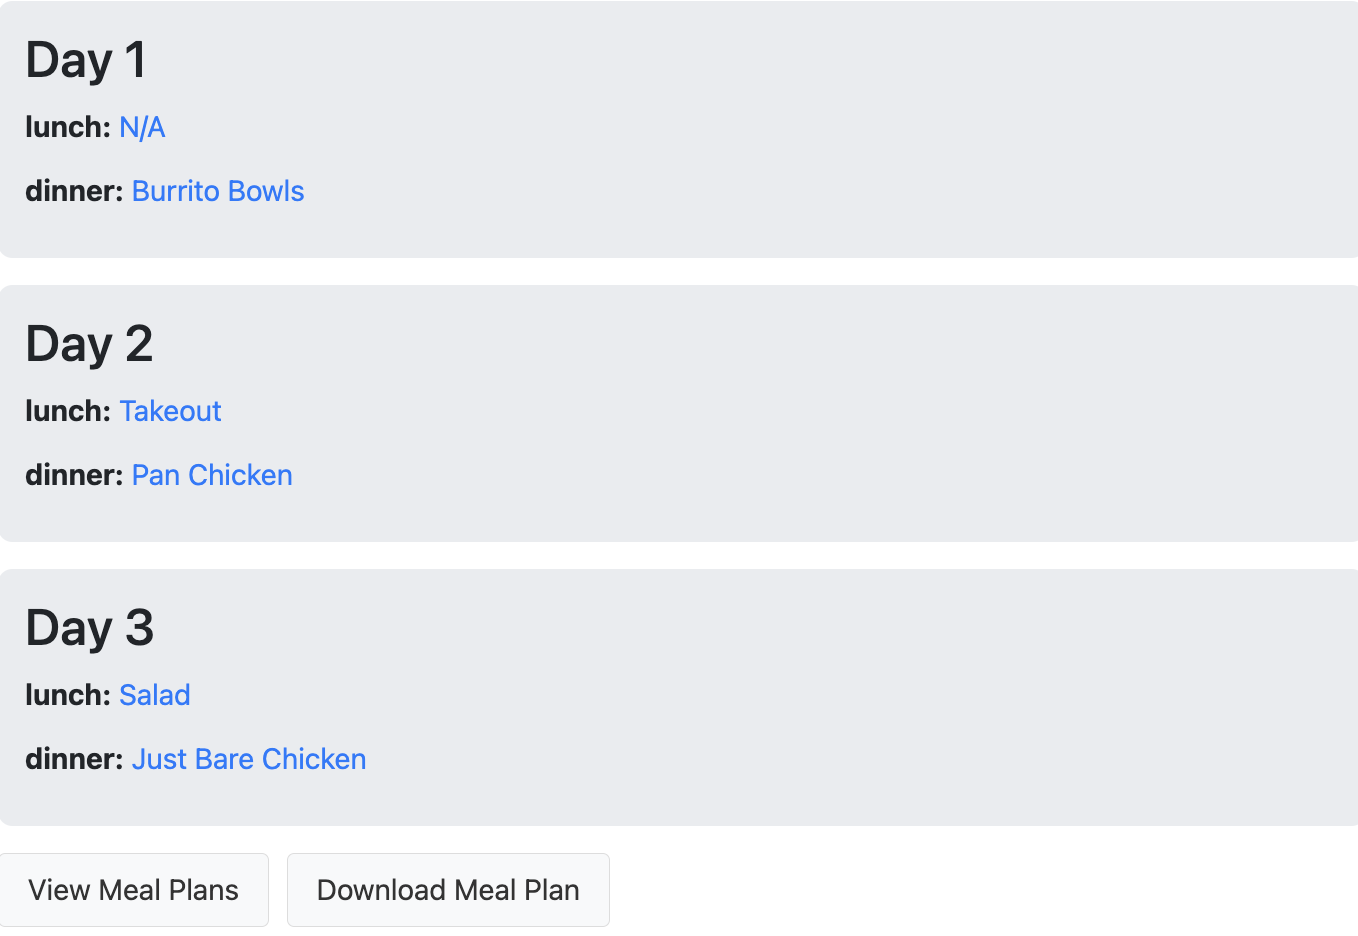
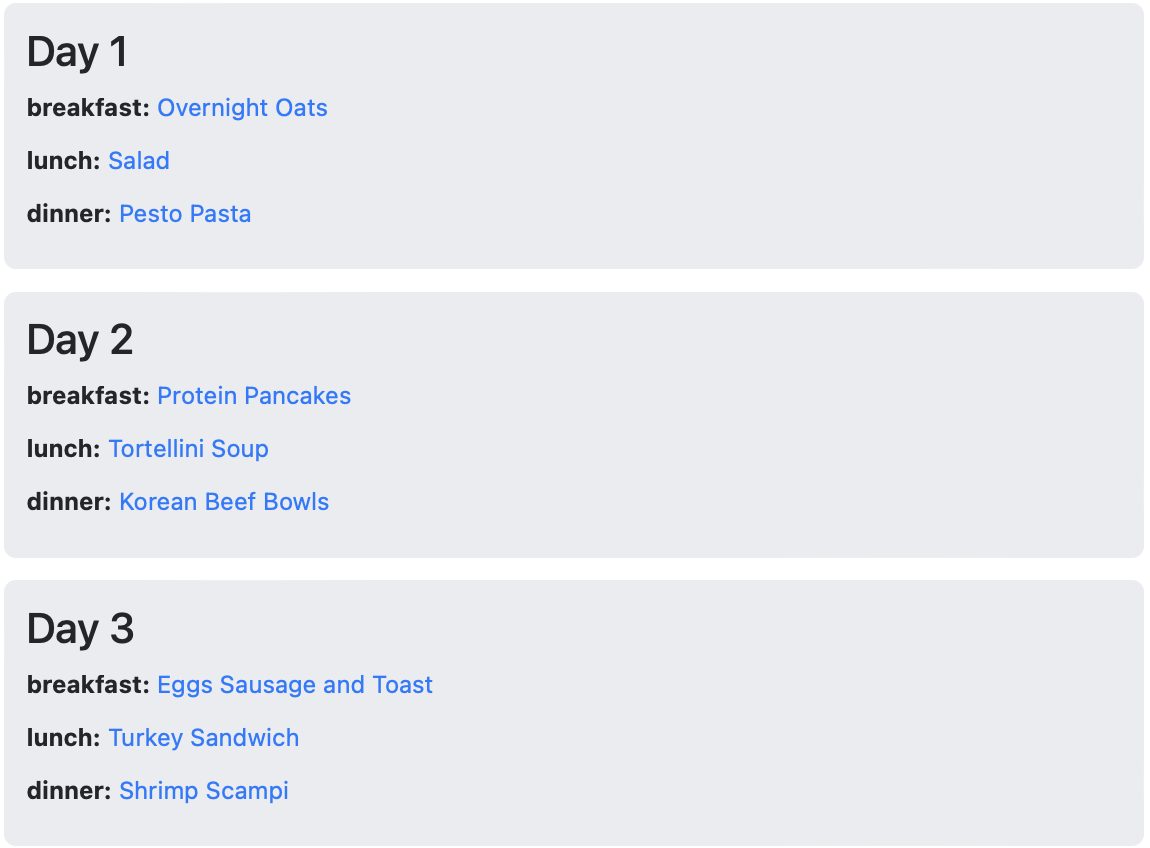
Major updates to landing page

diff --git a/templates/registration/landing_page.html b/templates/registration/landing_page.html
@@ -2,36 +2,38 @@
 {% load static %}
 
 {% block content %}
-<div class="top-section">
-    <div class="left-content">
+<div class="hero-section">
+    <div class="hero-content">
         <h1>Create Your Recipe Archive</h1>
         <p>Stop forgetting about all the good food you make</p>
-        <a href="{% url 'login' %}" class="btn btn-custom">Log In</a>
-        <a href="{% url 'register' %}" class="btn btn-custom">Register</a>
+        <a href="{% url 'login' %}" class="btn btn-info">Log In</a>
+        <a href="{% url 'register' %}" class="btn btn-info">Register</a>
     </div>
-    <div class="right-content">
+    <div class="hero-image">
         <img src="{% static 'images/home_snip_1.png' %}" alt="Cooking Image" class="img-fluid">
     </div>
 </div>
+
 <div class="features-section">
-    <div class="feature-column">
-        <h3>Save all your recipes</h3>
+    <div class="feature-row">
+        <h3>Save your recipes</h3>
         <p>Fill easy to use forms to save your info</p>
-        <img src="{% static 'images/add.png' %}" alt="Feature One">
+        <img src="{% static 'images/add.png' %}" alt="Feature One" class="feature-image feature-image-1">
     </div>
 
-    <div class="feature-column">
+    <div class="feature-row">
         <h3>Generate Images</h3>
-        <p>Use AI to bring your archive alive</p>
-        <img src="{% static 'images/BeefBowl.png' %}" alt="Feature Two">
+        <p>Use AI to bring your Recipe Archive to life</p>
+        <img src="{% static 'images/BeefBowl.png' %}" alt="Feature Two" class="feature-image feature-image-2">
     </div>
 
-    <div class="feature-column">
+    <div class="feature-row">
         <h3>Create Mealplans</h3>
         <p>Using your recipes easily plan your meals</p>
-        <img src="{% static 'images/plan.png' %}" alt="Feature Three">
+        <img src="{% static 'images/plan.png' %}" alt="Feature Three" class="feature-image feature-image-3">
     </div>
 </div>
+
     <style>
 
 @media only screen and (max-width: 600px) {
@@ -53,15 +55,109 @@
     }
 }
 
-    .top-section {
-    background-size: cover;
-    padding: 50px 0;
+.hero-section {
+    display: flex;
+    flex-direction: column;
+    align-items: center;
+    justify-content: center;
+    height: 100vh; /* Full height of the viewport */
+    text-align: center;
+    padding: 20px;
 }
 
-.feature-column:hover {
-    transform: scale(1.05);
-    transition: transform 0.3s ease-in-out;
+.hero-content {
+    /* Add margin for spacing between text and image */
+    margin-bottom: 20px;
 }
+
+.hero-content h1 {
+    font-size: 2.5em;
+    margin-bottom: 0.5em;
+}
+
+.hero-content p {
+    font-size: 1.2em;
+    margin-bottom: 1em;
+}
+
+
+.hero-image img {
+    max-width: 100%;
+    height: auto;
+    border: 3px solid #cccccc;
+
+}
+
+.feature-row {
+    clear: both; /* Clear any floating elements */
+    display: block; /* Ensure block-level display */
+    margin-bottom: 40px; /* Space between each feature */
+    width: 100%; /* Take full width */
+    /* Other styles... */
+}
+
+.features-section {
+    text-align: center;
+    padding: 20px;
+}
+
+.feature-row {
+    margin-bottom: 60px; /* Space between each feature */
+}
+
+.feature-row h3 {
+    font-size: 2.5em;
+    margin-bottom: 20px;
+}
+
+.feature-row p {
+    font-size: 1.8em;
+    margin-bottom: 20px;
+}
+
+.feature-image-1 {
+    max-width: 600px;
+    max-height: 800px;
+    /* Other styles */
+}
+
+.feature-image-2 {
+    max-width: 750px;
+    max-height: 750px;
+    /* Other styles */
+}
+
+.feature-image-3 {
+    max-width: 700px;
+    max-height: 700px;
+    /* Other styles */
+}
+
+/* General styles for all feature images */
+.feature-image {
+    width: 100%;
+    height: auto;
+    margin-bottom: 20px;
+}
+
+.feature-row img {
+    border: 3px solid #cccccc;
+    /*box-shadow: 0px 4px 8px rgba(0, 0, 0, 0.2);*/
+    margin-bottom: 20px;
+}
+
+body {
+    background-color: #f5f5f5; /* Replace with your chosen color */
+    color: #333; /* Ensure text color contrasts well */
+    /* Other styles */
+}
+
+/* If you want to apply the color to a specific section */
+.features-section {
+    background-color: #f5f5f5; /* Replace with your chosen color */
+    /* Other styles */
+}
+
 
     </style>
 

diff --git a/static/css/custom.css b/static/css/custom.css
@@ -367,41 +367,12 @@
     margin-top: 40px; /* Space between details and buttons */
 }
 
-.landing {
-    text-align: center;
-    padding: 50px 20px;
-}
-
-.landing .welcome-message h1 {
-    font-size: 2.5em;
-    margin-bottom: 20px;
-}
-
-.landing .welcome-message p {
-    font-size: 1.2em;
-    margin-bottom: 40px;
-}
-
-.landing .auth-options a {
-    margin: 10px;
-    padding: 10px 20px;
-    color: black;
-    text-decoration: none;
-}
-
 .info-icon {
     cursor: pointer;
     margin-left: 5px;
     color: #17a2b8; /* Bootstrap info color */
 }
 
-.top-section {
-    display: flex;
-    align-items: center;
-    justify-content: space-around;
-    background-color: #f8f8f8; /* Neutral gray color */
-    padding: 40px;
-}
 
 .left-content {
     flex: 1;
@@ -418,44 +389,6 @@
     height: auto;
 }
 
-.features-section {
-    display: flex;
-    justify-content: space-around;
-    text-align: center;
-    padding: 20px;
-}
-
-.feature-column {
-    flex-basis: 30%;
-    margin: 10px;
-    display: flex;
-    flex-direction: column;
-    align-items: center; /* Centers the content horizontally */
-}
-
-.feature-column img {
-    max-width: 100%;
-    height: auto;
-    border-radius: 8px;
-    margin-top: 10px;
-    align-self: center; /* Center the image in the flex container */
-}
-
-.feature-column h3, .feature-column p {
-    align-self: flex-start; /* Align text to the start */
-    width: 100%; /* Ensure full width for text alignment */
-}
-
-@media (max-width: 768px) {
-    .features-section {
-        flex-direction: column;
-        align-items: center;
-    }
-
-    .feature-column {
-        flex-basis: 100%;
-    }
-}
 html, body {
     height: 100%;
     margin: 0;
